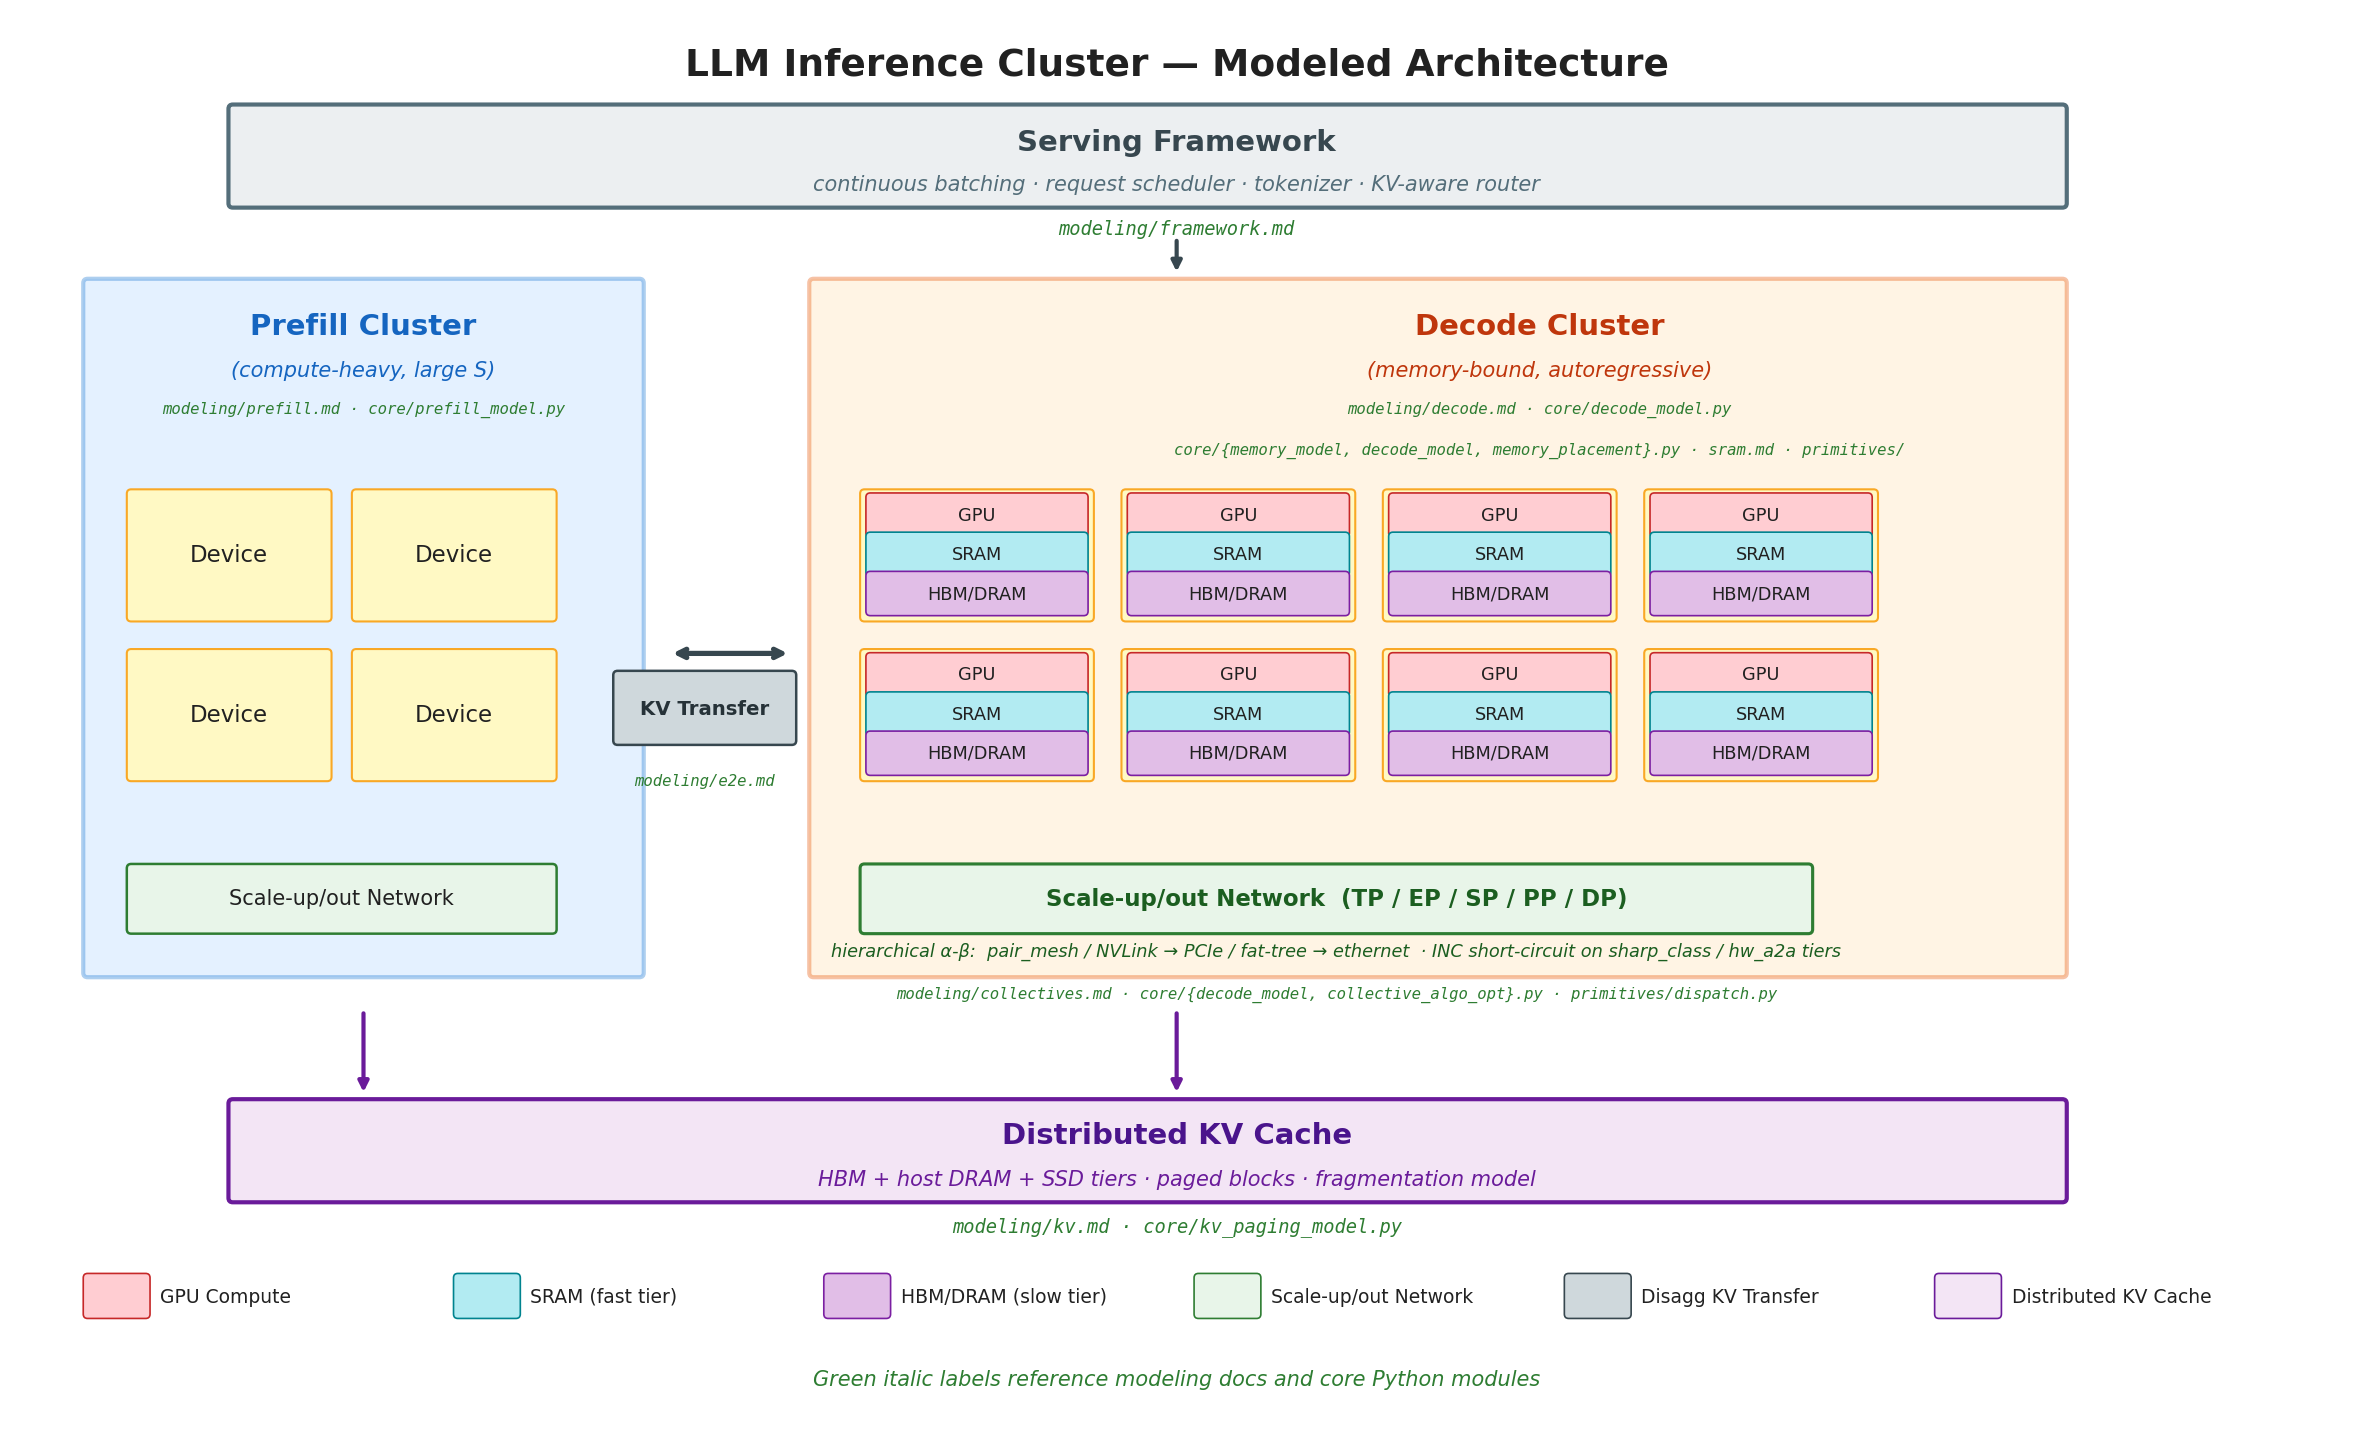
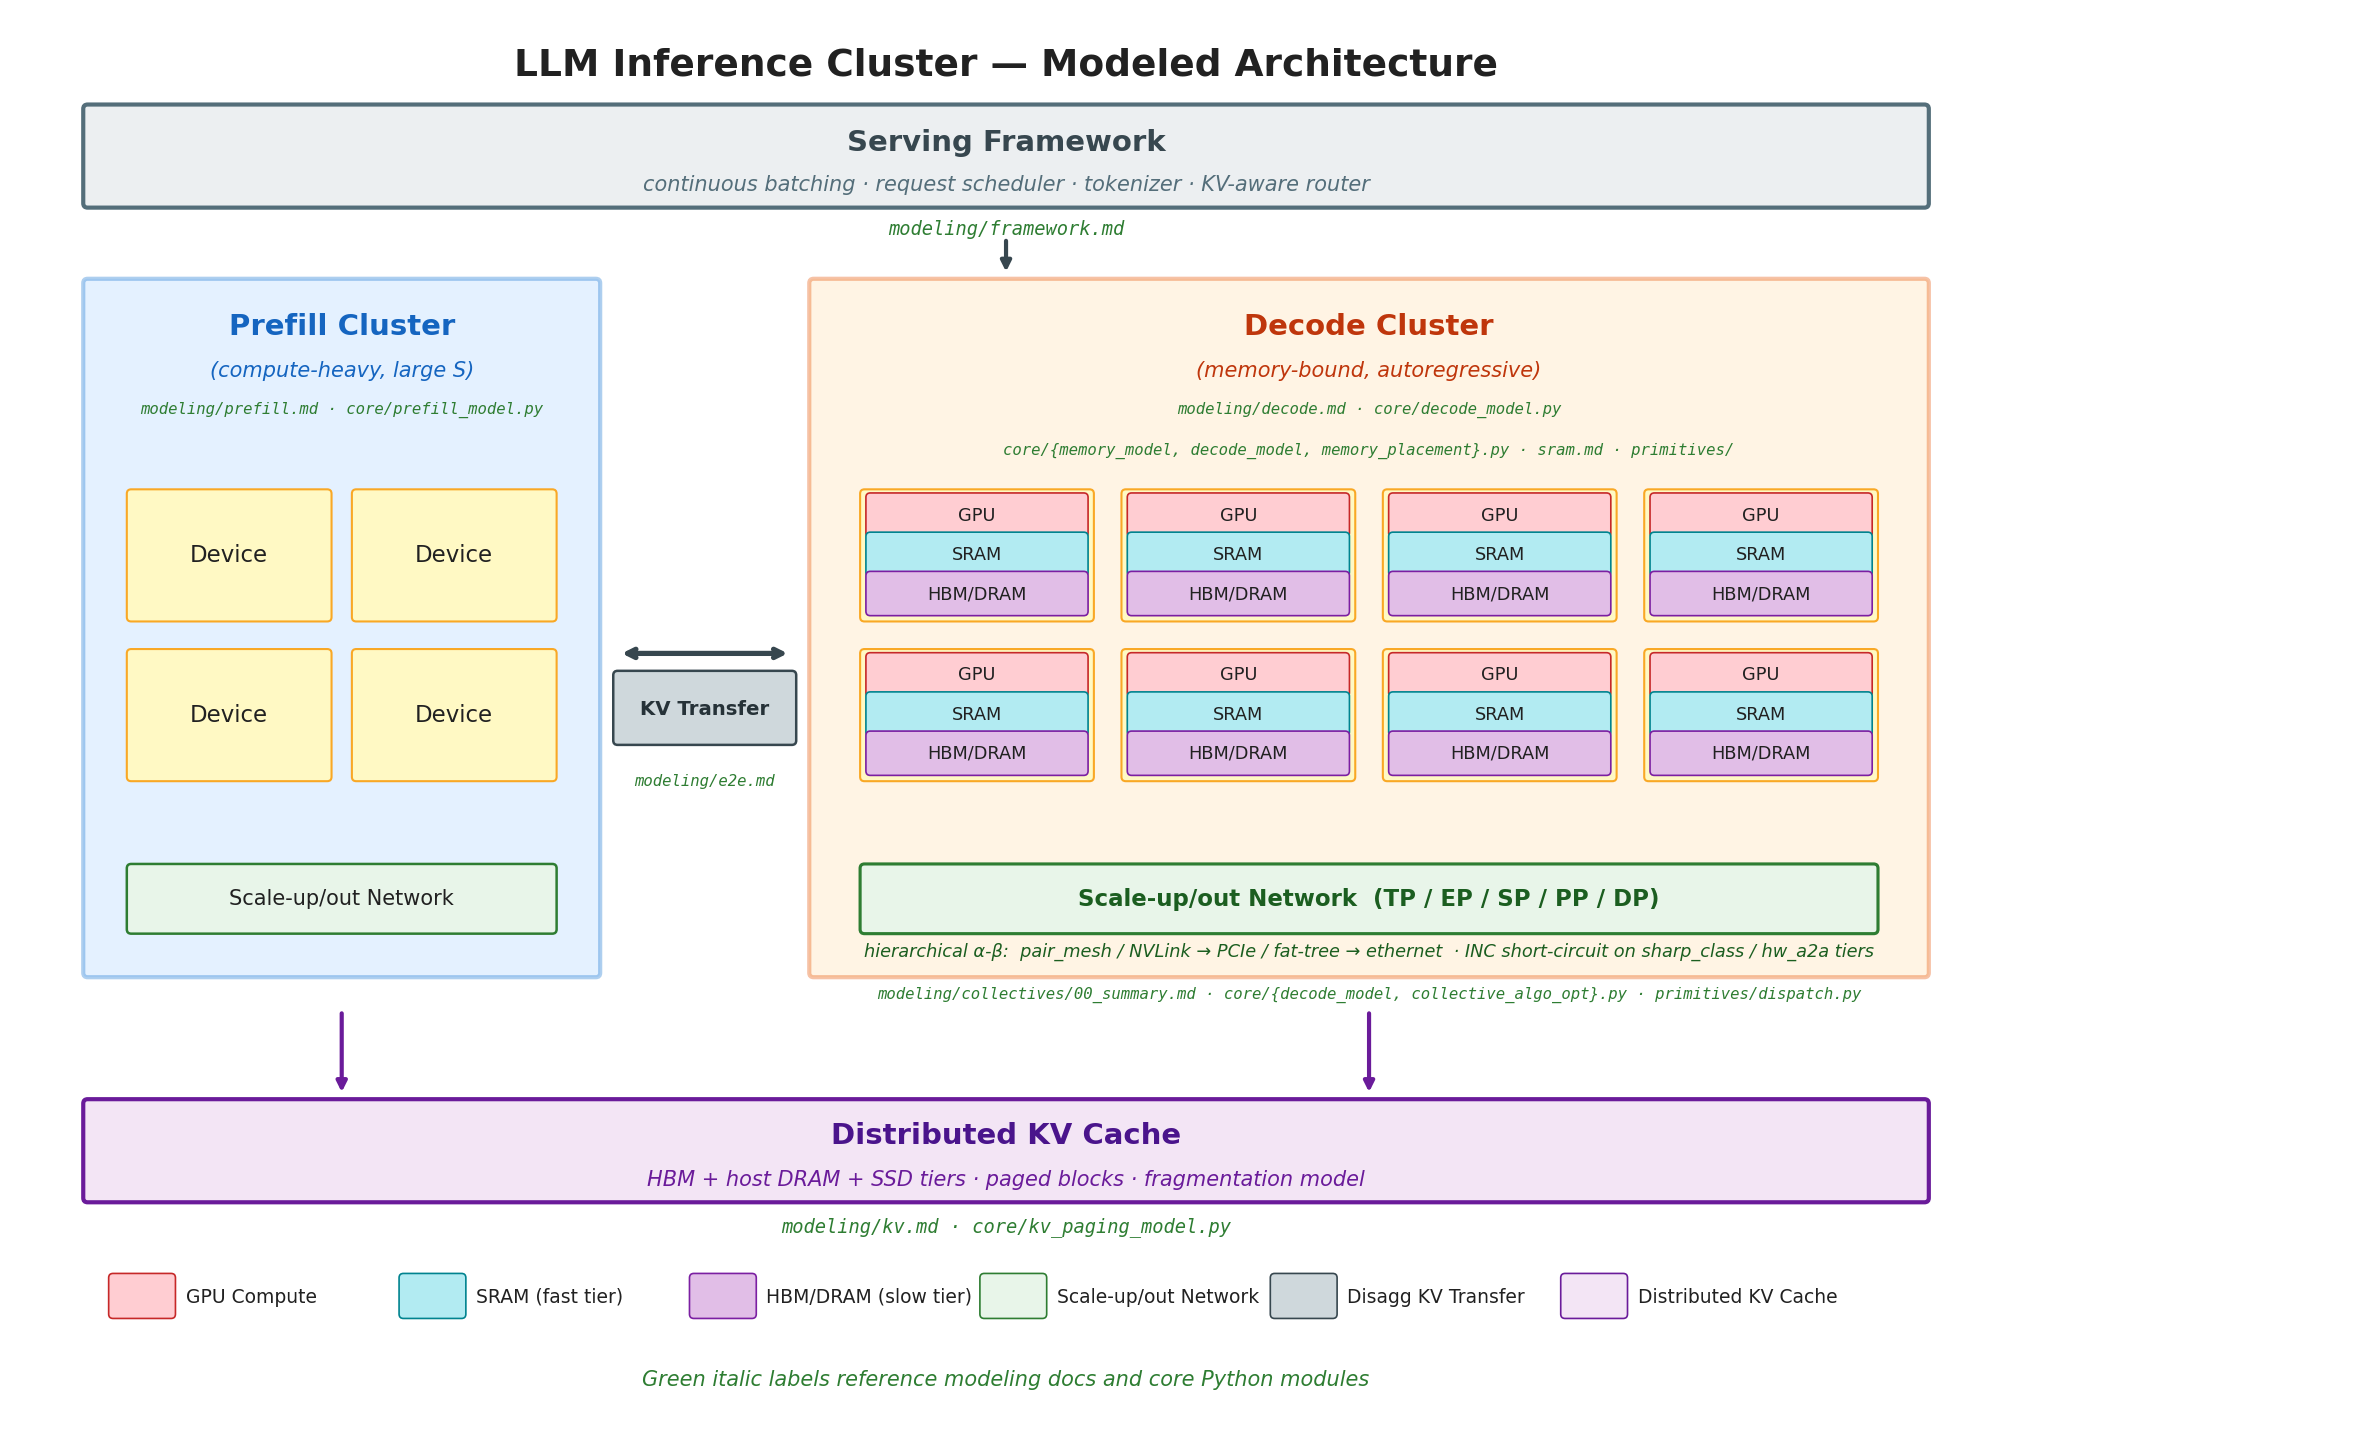
docs(diagram): rebalance cluster architecture layout
- Decode panel: width 8.6 → 7.65 so right margin matches left (0.35)
- Prefill panel: width 3.8 → 3.5 so left/right margins match (0.3)
- Decode title/subtitle/refs and scale-up bar now centered on the
  decode device-grid axis (x=9.325)
- Prefill title/refs centered on the prefill device-grid axis (x=2.25)
- Serving Framework + Distributed KV Cache bars widened to span the
  full content range (0.5..13.15); titles, refs, arrows, figure title,
  footer, and legend all recentered on the new content axis (x=6.825)
- KV Transfer arrow extended to span the full KV-box width, so it sits
  centered above the box

diff --git a/scripts/gen_arch_diagram.py b/scripts/gen_arch_diagram.py
@@ -44,32 +44,32 @@ def ref_text(x, y, text, fontsize=8.5, ha="center"):
 # ═══════════════════════════════════════════════════════════════════
 # Title
 # ═══════════════════════════════════════════════════════════════════
-ax.text(8, 11.65, "LLM Inference Cluster — Modeled Architecture", ha="center", va="center",
+ax.text(6.825, 11.65, "LLM Inference Cluster — Modeled Architecture", ha="center", va="center",
         fontsize=18, fontweight="bold", color=C_TEXT)
 
 # ═══════════════════════════════════════════════════════════════════
 # Serving Framework (top bar)
 # ═══════════════════════════════════════════════════════════════════
-rounded_box(1.5, 10.7, 12.6, 0.65, C_FRAME, lw=2.0, ec="#546E7A")
-ax.text(8, 11.12, "Serving Framework", ha="center", va="center",
+rounded_box(0.5, 10.7, 12.65, 0.65, C_FRAME, lw=2.0, ec="#546E7A")
+ax.text(6.825, 11.12, "Serving Framework", ha="center", va="center",
         fontsize=14, fontweight="bold", color="#37474F")
-ax.text(8, 10.83, "continuous batching · request scheduler · tokenizer · KV-aware router",
+ax.text(6.825, 10.83, "continuous batching · request scheduler · tokenizer · KV-aware router",
         ha="center", va="center", fontsize=10, color="#546E7A", fontstyle="italic")
-ref_text(8, 10.52, "modeling/framework.md", fontsize=9)
+ref_text(6.825, 10.52, "modeling/framework.md", fontsize=9)
 
 # Arrow down
-ax.annotate("", xy=(8, 10.2), xytext=(8, 10.47),
+ax.annotate("", xy=(6.825, 10.2), xytext=(6.825, 10.47),
             arrowprops=dict(arrowstyle="-|>", color="#37474F", lw=2.0))
 
 # ═══════════════════════════════════════════════════════════════════
 # Prefill Cluster (left)
 # ═══════════════════════════════════════════════════════════════════
-rounded_box(0.5, 5.4, 3.8, 4.75, C_PREFILL, lw=2.0, ec="#1976D2", alpha=0.35, zorder=1)
-ax.text(2.4, 9.85, "Prefill Cluster", ha="center", va="center",
+rounded_box(0.5, 5.4, 3.5, 4.75, C_PREFILL, lw=2.0, ec="#1976D2", alpha=0.35, zorder=1)
+ax.text(2.25, 9.85, "Prefill Cluster", ha="center", va="center",
         fontsize=14, fontweight="bold", color="#1565C0")
-ax.text(2.4, 9.55, "(compute-heavy, large S)", ha="center", va="center",
+ax.text(2.25, 9.55, "(compute-heavy, large S)", ha="center", va="center",
         fontsize=10, color="#1565C0", fontstyle="italic")
-ref_text(2.4, 9.28, "modeling/prefill.md · core/prefill_model.py", fontsize=7.5)
+ref_text(2.25, 9.28, "modeling/prefill.md · core/prefill_model.py", fontsize=7.5)
 
 # Prefill devices — 2x2, tight
 for dx, dy in [(0.8, 7.85), (2.35, 7.85), (0.8, 6.75), (2.35, 6.75)]:
@@ -81,12 +81,12 @@ rounded_box(0.8, 5.7, 2.9, 0.42, C_SWITCH, label="Scale-up/out Network", fontsiz
 # ═══════════════════════════════════════════════════════════════════
 # Decode Cluster (right)
 # ═══════════════════════════════════════════════════════════════════
-rounded_box(5.5, 5.4, 8.6, 4.75, C_DECODE, lw=2.0, ec="#E65100", alpha=0.35, zorder=1)
-ax.text(10.5, 9.85, "Decode Cluster", ha="center", va="center",
+rounded_box(5.5, 5.4, 7.65, 4.75, C_DECODE, lw=2.0, ec="#E65100", alpha=0.35, zorder=1)
+ax.text(9.325, 9.85, "Decode Cluster", ha="center", va="center",
         fontsize=14, fontweight="bold", color="#BF360C")
-ax.text(10.5, 9.55, "(memory-bound, autoregressive)", ha="center", va="center",
+ax.text(9.325, 9.55, "(memory-bound, autoregressive)", ha="center", va="center",
         fontsize=10, color="#BF360C", fontstyle="italic")
-ref_text(10.5, 9.28, "modeling/decode.md · core/decode_model.py", fontsize=7.5)
+ref_text(9.325, 9.28, "modeling/decode.md · core/decode_model.py", fontsize=7.5)
 
 # Decode devices — 4 top, 4 bottom; each device is a 3-tier memory stack:
 # GPU compute (top) · SRAM fast tier (middle) · HBM/DRAM slow tier (bottom).
@@ -108,23 +108,23 @@ for row_y in [top_y, bot_y]:
         rounded_box(dx + 0.04, hbm_y,  dw - 0.08, band_h, C_HBM,  label="HBM/DRAM", fontsize=8.5, lw=0.8, ec="#7B1FA2")
 
 # Device-level references
-ref_text(10.5, 9.0, "core/{memory_model, decode_model, memory_placement}.py · sram.md · primitives/", fontsize=7.5)
+ref_text(9.325, 9.0, "core/{memory_model, decode_model, memory_placement}.py · sram.md · primitives/", fontsize=7.5)
 
 # Decode scale-up/out network — shown as the canonical hierarchical chain
 # (innermost first). Single-tier deployments collapse to one element.
 # All five parallelism dimensions (TP/EP/SP intra-domain, PP cross-stage,
 # DP across replicas) ride this one fabric model.
-rounded_box(5.85, 5.7, 6.5, 0.42, C_SWITCH, lw=1.5, ec="#2E7D32")
-ax.text(9.1, 5.91, "Scale-up/out Network  (TP / EP / SP / PP / DP)", ha="center", va="center",
+rounded_box(5.85, 5.7, 6.95, 0.42, C_SWITCH, lw=1.5, ec="#2E7D32")
+ax.text(9.325, 5.91, "Scale-up/out Network  (TP / EP / SP / PP / DP)", ha="center", va="center",
         fontsize=11, fontweight="bold", color="#1B5E20")
-ax.text(9.1, 5.55, "hierarchical α-β:  pair_mesh / NVLink → PCIe / fat-tree → ethernet  · INC short-circuit on sharp_class / hw_a2a tiers",
+ax.text(9.325, 5.55, "hierarchical α-β:  pair_mesh / NVLink → PCIe / fat-tree → ethernet  · INC short-circuit on sharp_class / hw_a2a tiers",
         ha="center", va="center", fontsize=8.5, color="#1B5E20", fontstyle="italic")
-ref_text(9.1, 5.25, "modeling/collectives/00_summary.md · core/{decode_model, collective_algo_opt}.py · primitives/dispatch.py", fontsize=7.5)
+ref_text(9.325, 5.25, "modeling/collectives/00_summary.md · core/{decode_model, collective_algo_opt}.py · primitives/dispatch.py", fontsize=7.5)
 
 # ═══════════════════════════════════════════════════════════════════
 # KV Transfer interconnect (between clusters)
 # ═══════════════════════════════════════════════════════════════════
-ax.annotate("", xy=(5.35, 7.6), xytext=(4.5, 7.6),
+ax.annotate("", xy=(5.35, 7.6), xytext=(4.15, 7.6),
             arrowprops=dict(arrowstyle="<->", color="#37474F", lw=2.5))
 rounded_box(4.15, 7.0, 1.2, 0.45, C_INTERCO, lw=1.2, ec="#37474F")
 ax.text(4.75, 7.22, "KV Transfer", ha="center", va="center", fontsize=9.5, fontweight="bold",
@@ -134,17 +134,17 @@ ref_text(4.75, 6.72, "modeling/e2e.md", fontsize=7.5)
 # ═══════════════════════════════════════════════════════════════════
 # Distributed KV Cache (bottom bar)
 # ═══════════════════════════════════════════════════════════════════
-ax.annotate("", xy=(2.4, 4.55), xytext=(2.4, 5.15),
+ax.annotate("", xy=(2.25, 4.55), xytext=(2.25, 5.15),
             arrowprops=dict(arrowstyle="-|>", color="#6A1B9A", lw=2.0))
-ax.annotate("", xy=(8, 4.55), xytext=(8, 5.15),
+ax.annotate("", xy=(9.325, 4.55), xytext=(9.325, 5.15),
             arrowprops=dict(arrowstyle="-|>", color="#6A1B9A", lw=2.0))
 
-rounded_box(1.5, 3.85, 12.6, 0.65, C_KV, lw=2.0, ec="#6A1B9A")
-ax.text(8, 4.28, "Distributed KV Cache", ha="center", va="center",
+rounded_box(0.5, 3.85, 12.65, 0.65, C_KV, lw=2.0, ec="#6A1B9A")
+ax.text(6.825, 4.28, "Distributed KV Cache", ha="center", va="center",
         fontsize=14, fontweight="bold", color="#4A148C")
-ax.text(8, 3.98, "HBM + host DRAM + SSD tiers · paged blocks · fragmentation model",
+ax.text(6.825, 3.98, "HBM + host DRAM + SSD tiers · paged blocks · fragmentation model",
         ha="center", va="center", fontsize=10, color="#6A1B9A", fontstyle="italic")
-ref_text(8, 3.65, "modeling/kv.md · core/kv_paging_model.py", fontsize=9)
+ref_text(6.825, 3.65, "modeling/kv.md · core/kv_paging_model.py", fontsize=9)
 
 # ═══════════════════════════════════════════════════════════════════
 # Legend at bottom
@@ -159,11 +159,11 @@ legend_items = [
     (C_KV,     "#6A1B9A", "Distributed KV Cache"),
 ]
 for i, (fc, ec, label) in enumerate(legend_items):
-    lx = 0.5 + i * 2.55
+    lx = 0.675 + i * 2.0
     rounded_box(lx, legend_y, 0.4, 0.25, fc, lw=0.8, ec=ec)
     ax.text(lx + 0.5, legend_y + 0.12, label, ha="left", va="center", fontsize=9, color=C_TEXT)
 
-ax.text(8, 2.6, "Green italic labels reference modeling docs and core Python modules",
+ax.text(6.825, 2.6, "Green italic labels reference modeling docs and core Python modules",
         ha="center", va="center", fontsize=10, color=C_REF, fontstyle="italic")
 
 fig.tight_layout()